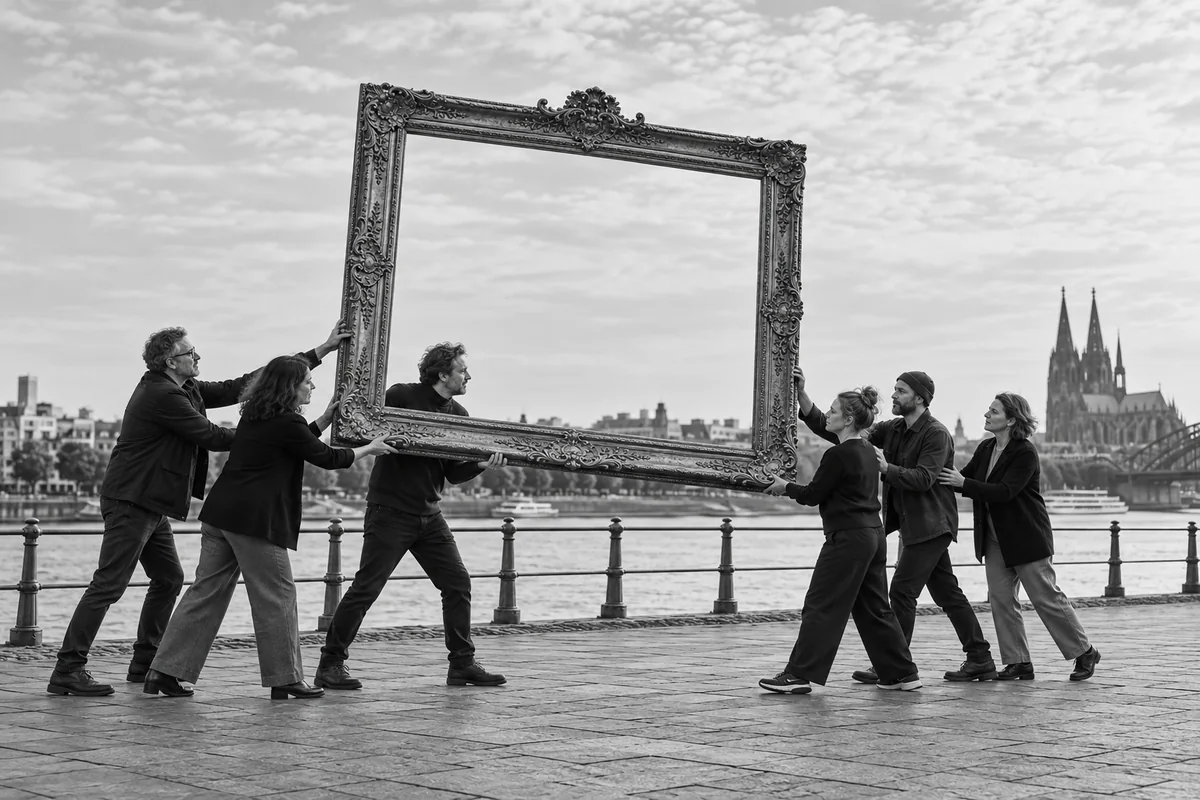
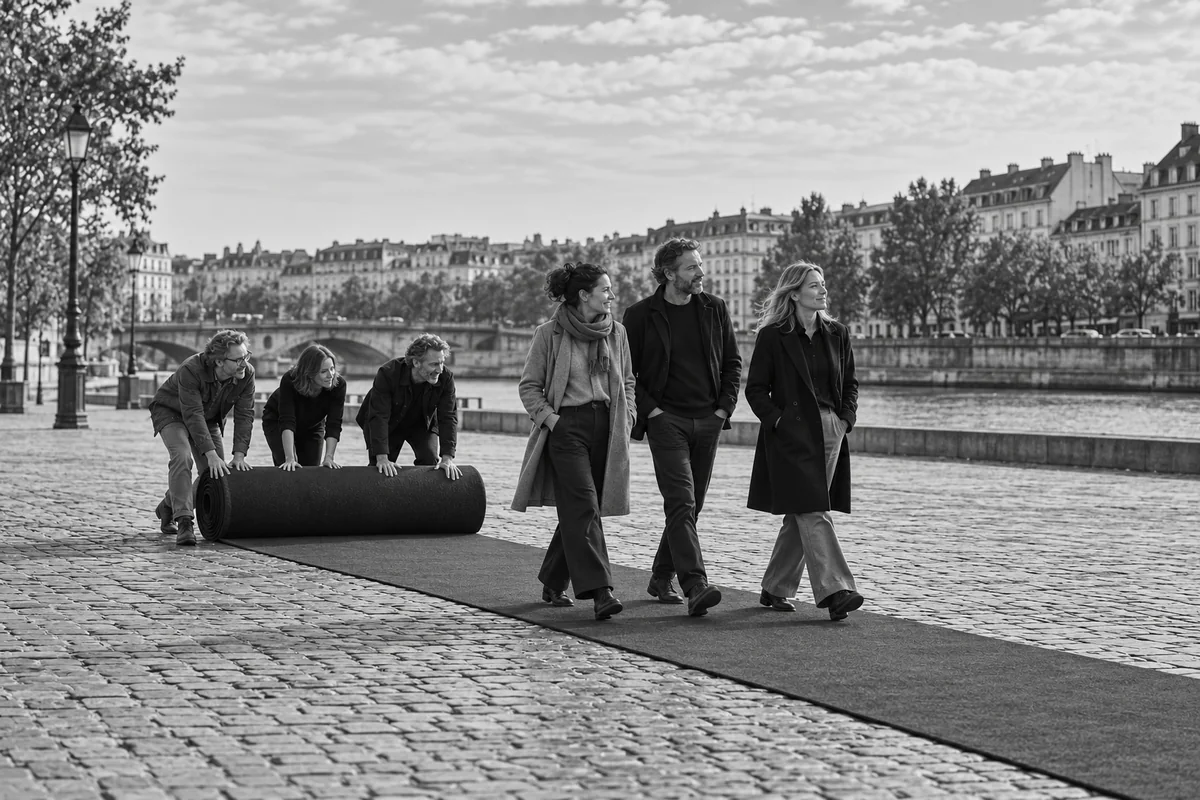
Replace two repeated frame motifs with carpet sequence and triple cafe bill photographs

diff --git a/meta-google-zeitversetzt.html b/meta-google-zeitversetzt.html
@@ -7,7 +7,7 @@
 <div class="nav-wrap"><div class="wrap"><nav class="site-nav"><a class="logo" href="/">heidewitzka</a><button class="nav-toggle" type="button" aria-expanded="false" aria-controls="site-menu" aria-label="Menü öffnen"><span></span><span></span><span></span></button><div class="nav-links" id="site-menu"><a href="/campaign-management.html">Kampagnenmanagement</a><a href="/ai.html">KI im Marketing</a><a href="/shop.html">Direkt-Buchung</a><a href="/insights.html">Blog</a><a class="nav-consultation" href="https://calendly.com/vogt-heidewitzka/30min" target="_blank" rel="noopener noreferrer">20-Minuten-Gespräch buchen</a></div></nav></div></div>
 <main><article class="blog-article">
 <header class="blog-header"><div class="wrap blog-narrow"><a class="blog-back" href="/insights">← Alle Insights</a><div class="eyebrow">Performance Marketing · Analyse &amp; Experimente</div><h1>Meta + Google: Was passiert, wenn man beide Kanäle zeitversetzt einschaltet?</h1><p class="blog-deck">Nachfrage zuerst anstoßen, Suchwerbung danach verstärken: eine überprüfbare Alternative zu dauerhaft parallelen Kampagnen.</p><div class="blog-meta">Heidewitzka · 30. September 2026 · ca. 3 Min. Lesezeit</div></div></header>
-<figure class="wrap blog-narrow blog-cover"><img src="/assets/blog-meta-google-zeitversetzt.webp" width="1200" height="800" alt="Zwei Gruppen reichen einen großen leeren Bilderrahmen am Rheinufer weiter." fetchpriority="high" decoding="async"></figure>
+<figure class="wrap blog-narrow blog-cover"><img src="/assets/blog-meta-google-zeitversetzt.webp" width="1200" height="800" alt="Eine Gruppe rollt einen Teppich auf einem Platz aus, während eine zweite bereits darauf losgeht." fetchpriority="high" decoding="async"></figure>
 <section class="blog-body"><div class="wrap blog-narrow"><p class="blog-intro">Normalerweise laufen Social Ads und Suchwerbung gleichzeitig. Für ein Angebot mit längerer Entscheidung könnte eine andere Taktung sinnvoll sein: zunächst ein Problem auf Meta erklären und danach das Suchbudget verstärken. Die spannende Frage ist nicht, ob die Abfolge gut klingt. Sie lautet: Bringt sie bei gleichem Gesamtbudget mehr Geschäft?</p>
 <p>Das Konzept passt als Hypothese zu zeitlich planbaren Anlässen: einer Modernisierung, einem neuen B2B-Angebot oder einer Saisonvorbereitung. Es setzt voraus, dass zwischen erster Aufmerksamkeit und Suchhandlung tatsächlich Zeit liegt. Bei dringendem Bedarf kann eine zurückgefahrene Suche genau die Menschen verpassen, die schon jetzt kaufen möchten.</p>
 <h2>Eine Staffelung mit gleicher Gesamtsumme</h2>

diff --git a/plattform-attribution.html b/plattform-attribution.html
@@ -7,7 +7,7 @@
 <div class="nav-wrap"><div class="wrap"><nav class="site-nav"><a class="logo" href="/">heidewitzka</a><button class="nav-toggle" type="button" aria-expanded="false" aria-controls="site-menu" aria-label="Menü öffnen"><span></span><span></span><span></span></button><div class="nav-links" id="site-menu"><a href="/campaign-management.html">Kampagnenmanagement</a><a href="/ai.html">KI im Marketing</a><a href="/shop.html">Direkt-Buchung</a><a href="/insights.html">Blog</a><a class="nav-consultation" href="https://calendly.com/vogt-heidewitzka/30min" target="_blank" rel="noopener noreferrer">20-Minuten-Gespräch buchen</a></div></nav></div></div>
 <main><article class="blog-article">
 <header class="blog-header"><div class="wrap blog-narrow"><a class="blog-back" href="/insights">← Alle Insights</a><div class="eyebrow">Performance Marketing · Analyse &amp; Experimente</div><h1>Ein Abschluss, drei Plattformen: Wie oft verkaufen wir denselben Kunden?</h1><p class="blog-deck">Warum Meta, LinkedIn und Google denselben Erfolg beanspruchen können – und welche Zahlen im gemeinsamen Bericht addiert werden dürfen.</p><div class="blog-meta">Heidewitzka · 30. September 2026 · ca. 3 Min. Lesezeit</div></div></header>
-<figure class="wrap blog-narrow blog-cover"><img src="/assets/blog-plattform-attribution.webp" width="1200" height="800" alt="Eine Gruppe richtet drei Spiegel aus, die dieselben Personen aus verschiedenen Blickwinkeln zeigen." fetchpriority="high" decoding="async"></figure>
+<figure class="wrap blog-narrow blog-cover"><img src="/assets/blog-plattform-attribution.webp" width="1200" height="800" alt="Drei Kellner bringen derselben Tischrunde im Freien jeweils eine Rechnung." fetchpriority="high" decoding="async"></figure>
 <section class="blog-body"><div class="wrap blog-narrow"><p class="blog-intro">Im CRM stehen 100 Bestellungen. Google Ads meldet 70, Meta 60 und LinkedIn 20 Conversions. Zusammen wären das 150. Das Unternehmen hat trotzdem keine 150 Bestellungen erhalten. Es betrachtet dieselben Geschäftsvorgänge durch mehrere Zuschreibungsregeln.</p>
 <p>Eine Kundin kann auf LinkedIn erstmals ein Angebot sehen, später auf Instagram reagieren und schließlich über eine Google-Suche kaufen. Jede Plattform bewertet ihren eigenen Kontakt. Diese Perspektiven sind für die jeweilige Steuerung hilfreich. Ihre Summe bildet aber keine deduplizierte Unternehmensrechnung.</p>
 <h2>Die Zahlen haben unterschiedliche Aufgaben</h2>
